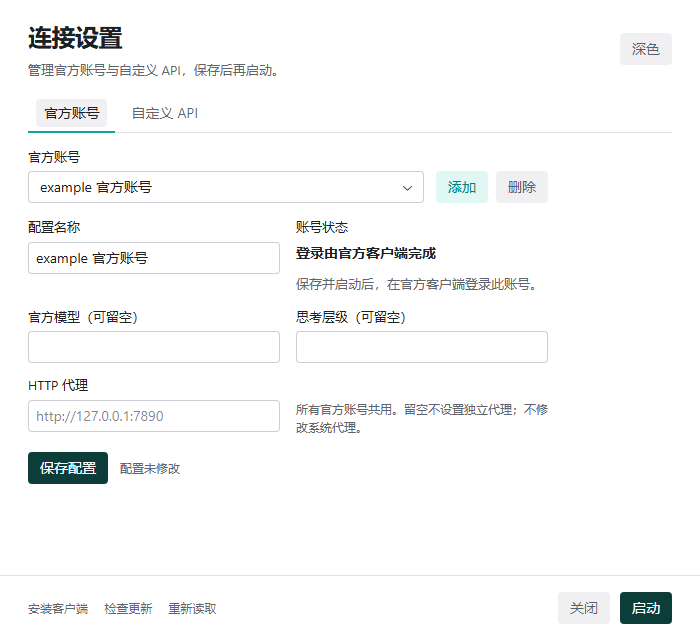
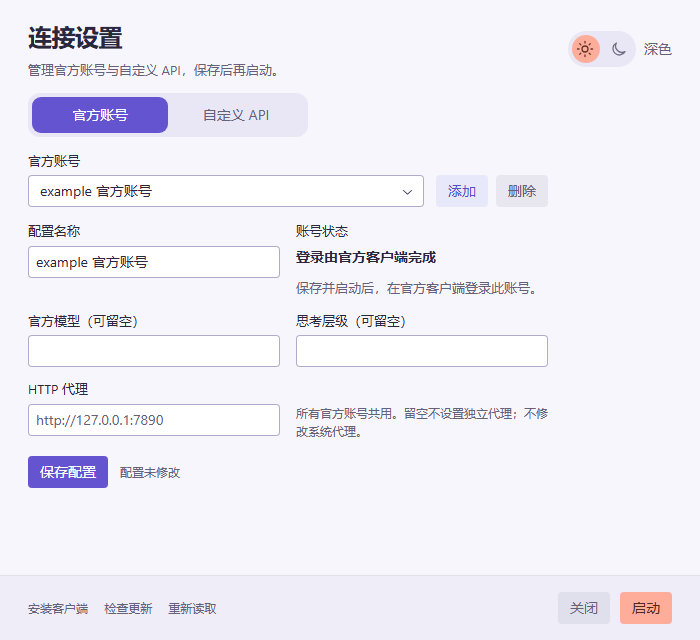
feat: 使用蓝紫珊瑚配色并为模式和外观切换添加滑动反馈

diff --git a/ui/tests/settings.spec.ts b/ui/tests/settings.spec.ts
@@ -164,42 +164,55 @@ test("settings fit desktop, compact window and large text in both themes", async
   page,
 }) => {
   await fixture(page);
-  for (const [width, height] of [
-    [700, 640],
-    [600, 580],
-  ]) {
-    await page.setViewportSize({ width, height });
-    for (const mode of ["官方账号", "自定义 API"]) {
-      await page.getByRole("tab", { name: mode, exact: true }).click();
-      await expect(
-        page.getByRole("button", { name: "保存配置", exact: true }),
-      ).toBeVisible();
-      expect(
-        await page.evaluate(
-          () => document.documentElement.scrollWidth <= innerWidth,
-        ),
-      ).toBe(true);
-      if (height === 640)
-        expect(
-          await page.evaluate(
-            () => document.documentElement.scrollHeight <= innerHeight,
-          ),
-        ).toBe(true);
-      await page.screenshot({
-        path: `.impeccable/review/${width}-${mode}.png`,
-        fullPage: true,
-      });
+  for (const appearance of ["light", "dark"] as const) {
+    await page.emulateMedia({ reducedMotion: "reduce" });
+    if (appearance === "dark") {
+      await page.getByRole("button", { name: "深色", exact: true }).focus();
+      await page.keyboard.press("Space");
+      await expect(page.getByRole("button", { name: "浅色", exact: true })).toBeVisible();
     }
+    for (const [width, height] of [[700, 640], [600, 580]]) {
+      await page.setViewportSize({ width, height });
+      for (const mode of ["官方账号", "自定义 API"]) {
+        await page.getByRole("tab", { name: mode, exact: true }).click();
+        await expect(page.getByRole("tab", { name: mode, exact: true })).toHaveAttribute("aria-selected", "true");
+        await expect(page.getByRole("button", { name: "保存配置", exact: true })).toBeVisible();
+        expect(await page.evaluate(() => document.documentElement.scrollWidth <= innerWidth)).toBe(true);
+        if (height === 640)
+          expect(await page.evaluate(() => document.documentElement.scrollHeight <= innerHeight)).toBe(true);
+        await page.screenshot({
+          path: `.impeccable/review/${width}-${mode}${appearance === "dark" ? "-dark" : ""}.png`,
+          fullPage: true,
+          animations: "disabled",
+        });
+      }
+    }
+    // Contrast uses the browser's actual resolved theme, including control overrides.
+    const ratios = await page.evaluate(() => {
+      const luminance = (color: string) => {
+        const channels = color.match(/[\d.]+/g)!.slice(0, 3).map(Number).map(v => {
+          v /= 255;
+          return v <= 0.04045 ? v / 12.92 : ((v + 0.055) / 1.055) ** 2.4;
+        });
+        return channels[0] * 0.2126 + channels[1] * 0.7152 + channels[2] * 0.0722;
+      };
+      return ["header p", ".primary-action", ".launch-action", ".mode-switch [aria-selected=true]"].map(selector => {
+        const element = document.querySelector(selector)!;
+        const style = getComputedStyle(element);
+        const background = selector === "header p" ? getComputedStyle(document.querySelector(".app")!).backgroundColor
+          : selector.includes("mode-switch") ? getComputedStyle(document.querySelector(".mode-switch")!, "::before").backgroundColor
+          : style.backgroundColor;
+        const a = luminance(style.color), b = luminance(background);
+        return { selector, ratio: (Math.max(a, b) + 0.05) / (Math.min(a, b) + 0.05) };
+      });
+    });
+    for (const { selector, ratio } of ratios) expect(ratio, selector).toBeGreaterThanOrEqual(4.5);
   }
-  await page.getByRole("button", { name: "深色", exact: true }).click();
-  await page.screenshot({
-    path: ".impeccable/review/dark.png",
-    fullPage: true,
-  });
+  expect(await calls(page, "save")).toBe(0);
+  expect(await calls(page, "launch")).toBe(0);
+  await page.getByRole("tab", { name: "官方账号", exact: true }).focus();
+  await page.keyboard.press("ArrowRight");
+  await expect(page.getByRole("tab", { name: "自定义 API", exact: true })).toBeFocused();
   await page.evaluate(() => (document.documentElement.style.fontSize = "24px"));
-  expect(
-    await page.evaluate(
-      () => document.documentElement.scrollWidth <= innerWidth,
-    ),
-  ).toBe(true);
+  expect(await page.evaluate(() => document.documentElement.scrollWidth <= innerWidth)).toBe(true);
 });

diff --git a/ui/src/style.css b/ui/src/style.css
@@ -17,6 +17,158 @@ input {
   --default-font-family:
     -apple-system, BlinkMacSystemFont, "Segoe UI", "Microsoft YaHei", sans-serif;
   --cursor-button: pointer;
+  --color-background: #f7f6fc;
+  --surface-control: #ffffff;
+  --surface-track: #e9e6f5;
+  --surface-footer: #efedf8;
+  --action: #6554cf;
+  --action-hover: #5543be;
+  --action-text: #ffffff;
+  --launch: #ffad9b;
+  --launch-hover: #ff9984;
+  --launch-text: #55281f;
+  --gray-11: #646179;
+  --gray-12: #29263e;
+  --gray-a11: var(--gray-11);
+  --focus-8: #8271e0;
+  --control-border: #b2aaca;
+}
+.radix-themes.dark {
+  --color-background: #2b293b;
+  --surface-control: #363449;
+  --surface-track: #3b374f;
+  --surface-footer: #302d42;
+  --action: #b8aaff;
+  --action-hover: #c9beff;
+  --action-text: #302455;
+  --launch: #ffae9c;
+  --launch-hover: #ffc1b2;
+  --gray-11: #c2bdd4;
+  --gray-12: #f3efff;
+  --control-border: #827998;
+  --focus-8: #bcadff;
+}
+.app .rt-TextFieldRoot,
+.app .rt-SelectTrigger {
+  background: var(--surface-control);
+  box-shadow: inset 0 0 0 1px var(--control-border);
+}
+.app .rt-TextFieldRoot:focus-within {
+  box-shadow: inset 0 0 0 2px var(--focus-8);
+}
+.app .rt-TextFieldInput::placeholder {
+  color: var(--gray-11);
+}
+.primary-action:not(:disabled),
+.mode-switch::before {
+  background: var(--action);
+  color: var(--action-text);
+}
+.primary-action:not(:disabled):hover {
+  background: var(--action-hover);
+}
+.launch-action:not(:disabled) {
+  background: var(--launch);
+  color: var(--launch-text);
+}
+.launch-action:not(:disabled):hover {
+  background: var(--launch-hover);
+}
+.app .rt-Button {
+  transition: background-color 140ms ease, color 140ms ease;
+}
+.mode-switch {
+  position: relative;
+  isolation: isolate;
+  display: grid;
+  grid-template-columns: 1fr 1fr;
+  width: 280px;
+  max-width: 100%;
+  padding: 4px;
+  border-radius: 12px;
+  background: var(--surface-track);
+  box-shadow: none;
+  overflow: visible;
+}
+.mode-switch::before {
+  content: "";
+  position: absolute;
+  inset: 4px auto 4px 4px;
+  width: calc((100% - 8px) / 2);
+  border-radius: 9px;
+  transition: transform 240ms cubic-bezier(0.16, 1, 0.3, 1);
+  z-index: -1;
+}
+.mode-switch[data-mode="custom"]::before {
+  transform: translateX(100%);
+}
+.mode-switch .rt-BaseTabListTrigger {
+  height: 36px;
+  color: var(--gray-11);
+  border-radius: 9px;
+  transition: color 140ms ease;
+}
+.mode-switch .rt-BaseTabListTrigger[data-state="active"] {
+  color: var(--action-text);
+}
+.mode-switch .rt-BaseTabListTrigger::before {
+  display: none;
+}
+.mode-switch .rt-BaseTabListTriggerInner {
+  background: transparent;
+}
+.mode-switch .rt-BaseTabListTrigger:focus-visible {
+  outline: 2px solid var(--focus-8);
+  outline-offset: 2px;
+}
+.mode-switch .rt-BaseTabListTrigger:focus-visible .rt-BaseTabListTriggerInner {
+  outline: none;
+}
+.theme-toggle.rt-Button {
+  padding: 0;
+  height: 44px;
+  background: transparent;
+  color: var(--gray-11);
+  flex-shrink: 0;
+  gap: 8px;
+}
+.theme-track {
+  position: relative;
+  display: flex;
+  align-items: center;
+  justify-content: space-around;
+  width: 68px;
+  height: 36px;
+  border-radius: 18px;
+  background: var(--surface-track);
+}
+.theme-thumb {
+  position: absolute;
+  inset: 4px auto 4px 4px;
+  width: 28px;
+  border-radius: 50%;
+  background: var(--launch);
+  transition: transform 240ms cubic-bezier(0.16, 1, 0.3, 1), background-color 140ms ease;
+}
+.dark .theme-thumb {
+  transform: translateX(32px);
+  background: var(--action);
+}
+.theme-track svg {
+  position: relative;
+  width: 18px;
+  height: 18px;
+  fill: none;
+  stroke: currentColor;
+  stroke-width: 1.7;
+  stroke-linecap: round;
+  stroke-linejoin: round;
+}
+.light .theme-track svg:first-of-type {
+  color: var(--launch-text);
+}
+.dark .theme-track svg:last-of-type {
+  color: var(--action-text);
 }
 .app {
   /* 表单按可读行长定宽，不随窗口拉伸：短字段单列，长字段跨两列。 */
@@ -145,6 +297,7 @@ p {
   text-align: center;
 }
 footer {
+  background: var(--surface-footer);
   display: flex;
   justify-content: space-between;
   align-items: center;

diff --git a/ui/src/App.tsx b/ui/src/App.tsx
@@ -214,7 +214,7 @@ export default function App() {
   return (
     <Theme
       appearance={theme}
-      accentColor="teal"
+      accentColor="iris"
       grayColor="slate"
       radius="medium"
       scaling="100%"
@@ -226,11 +226,19 @@ export default function App() {
             <p>管理官方账号与自定义 API，保存后再启动。</p>
           </div>
           <Button
+            className="theme-toggle"
             variant="soft"
             color="gray"
+            aria-label={theme === "dark" ? "浅色" : "深色"}
+            title={theme === "dark" ? "切换到浅色外观" : "切换到深色外观"}
             onClick={() => setTheme(theme === "dark" ? "light" : "dark")}
           >
-            {theme === "dark" ? "浅色" : "深色"}
+            <span className="theme-track" aria-hidden="true">
+              <span className="theme-thumb" />
+              <svg viewBox="0 0 24 24"><circle cx="12" cy="12" r="4" /><path d="M12 2v2m0 16v2M2 12h2m16 0h2M5 5l1.5 1.5m11 11L19 19M5 19l1.5-1.5m11-11L19 5" /></svg>
+              <svg viewBox="0 0 24 24"><path d="M20 15.5A8.5 8.5 0 0 1 8.5 4 8.5 8.5 0 1 0 20 15.5Z" /></svg>
+            </span>
+            <span>{theme === "dark" ? "浅色" : "深色"}</span>
           </Button>
         </header>
         <section className="content" aria-busy={!!busy}>
@@ -243,7 +251,7 @@ export default function App() {
                 })
               }
             >
-              <Tabs.List aria-label="连接方式">
+              <Tabs.List aria-label="连接方式" className="mode-switch" data-mode={mode}>
                 <Tabs.Trigger value="official" disabled={!!busy}>
                   官方账号
                 </Tabs.Trigger>
@@ -416,7 +424,7 @@ export default function App() {
                 )}
                 <div className="save-row">
                   <Button
-                    highContrast
+                    className="primary-action"
                     onClick={() => void save()}
                     disabled={!profile || !!busy}
                   >
@@ -519,7 +527,7 @@ export default function App() {
             >
               关闭
             </Button>
-            <Button highContrast onClick={launch} disabled={!saved || !!busy}>
+            <Button className="launch-action" onClick={launch} disabled={!saved || !!busy}>
               {busy === "启动客户端" ? "正在启动…" : "启动"}
             </Button>
           </div>
@@ -543,7 +551,7 @@ export default function App() {
               </AlertDialog.Cancel>
               <AlertDialog.Action>
                 <Button
-                  highContrast
+                  className="primary-action"
                   onClick={() => {
                     const run = confirmation?.run;
                     setConfirmation(undefined);

diff --git a/DESIGN.md b/DESIGN.md
@@ -13,6 +13,9 @@ typography:
     lineHeight: 1.6
 rounded:
   feedback: 6px
+  segment: 9px
+  segment-track: 12px
+  theme-track: 18px
 spacing:
   control-gap: 8px
   field-gap: 12px
@@ -36,7 +39,7 @@ spacing:
 
 ## Colors
 
-主色使用 Radix `teal`，中性色使用 `slate`。颜色取自 Radix 主题变量，避免另建固定十六进制色板与浅深色主题脱节。
+主色使用 Radix `iris`，中性色使用 `slate`。浅色以淡紫白为底，深色以柔和灰紫为底，输入区比背景更亮。页面、控件、文字、主动作与启动动作通过 style.css 中统一的浅深色语义变量定义；蓝紫用于保存和模式选中，珊瑚色突出启动。
 
 | 角色 | 主题变量与用途 |
 | --- | --- |
@@ -46,9 +49,9 @@ spacing:
 | 错误反馈 | `--red-3` 背景、`--red-11` 文字 |
 | 键盘焦点与选区 | `--accent-8` 焦点环；`--accent-5` 选区 |
 
-**The Contrast Rule.** 保存、启动和确认操作使用 Radix `highContrast`，不以普通强调色实心按钮替换。
+**The Contrast Rule.** 保存与确认使用 `--action` / `--action-text`，启动使用 `--launch` / `--launch-text`。浅色蓝紫按钮使用白字，深色淡紫按钮和珊瑚按钮使用深色字；正文和操作文字对比度至少 4.5:1。
 
-首次显示跟随系统浅深色偏好；标题区提供“浅色 / 深色”切换，仅在当前窗口状态中保留。两种外观复用同一套语义变量。
+首次显示跟随系统浅深色偏好；标题区提供带日/月图标与滑动圆点的“浅色 / 深色”切换，仅在当前窗口状态中保留。两种外观复用同一套语义变量。
 
 ## Typography
 
@@ -78,11 +81,11 @@ spacing:
 
 ### 导航与草稿
 
-“官方账号”和“自定义 API”使用 Radix Tabs。切换 Tab、选择配置和编辑字段都留在内存草稿中，Tab 不触发落盘。保存行持续显示“有未保存修改”或“配置未修改”。
+“官方账号”和“自定义 API”使用 Radix Tabs，呈现为分段选择器，选中块在两项之间以 240ms 减速滑动，支持方向键切换与独立焦点环。切换 Tab、选择配置和编辑字段都留在内存草稿中，Tab 不触发落盘。保存行持续显示“有未保存修改”或“配置未修改”。
 
 ### 按钮与字段
 
-保存、启动使用高对比主按钮；添加与复制使用柔和强调按钮；关闭、删除、外观切换使用灰色柔和按钮；修复使用灰色描边按钮。安装客户端、检查更新、重新读取使用小号灰色透明按钮，维持辅助层级。
+保存使用蓝紫按钮，启动使用珊瑚按钮；添加与复制使用柔和强调按钮；关闭、删除使用灰色柔和按钮；外观切换使用日/月滑块；修复使用灰色描边按钮。安装客户端、检查更新、重新读取使用小号灰色透明按钮，维持辅助层级。
 
 输入框与配置选择器直接使用 Radix TextField、Select。操作期间禁用会修改配置或发起其他任务的控件，并在保存和启动按钮上显示进行中的文字。没有配置时，使用明确空状态引导添加。
 
